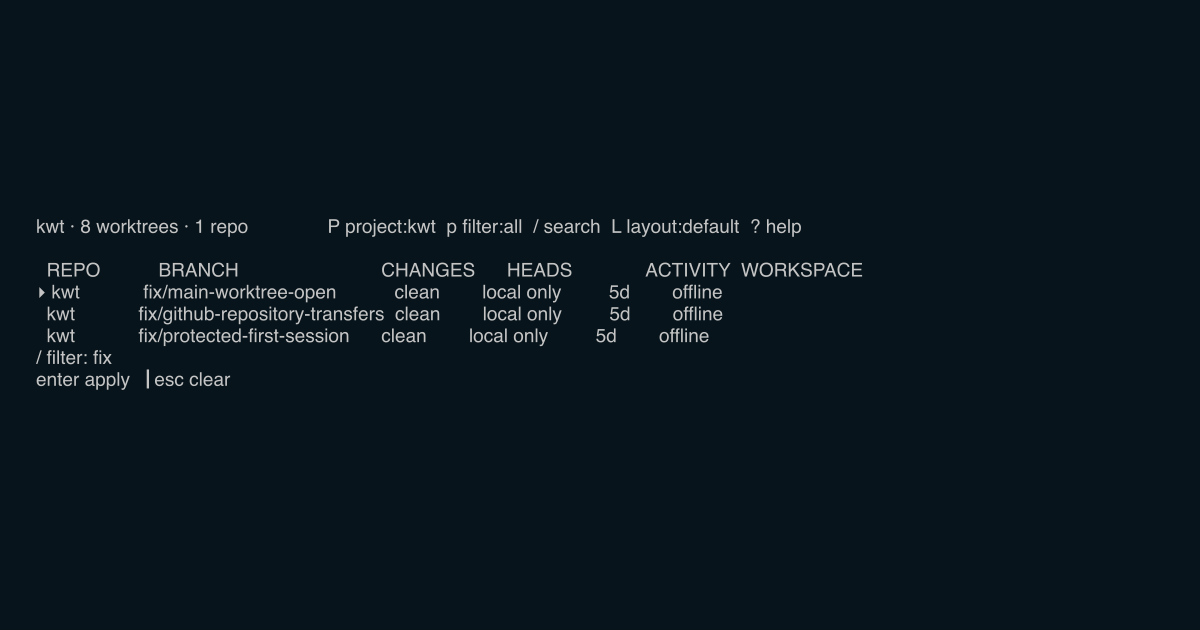
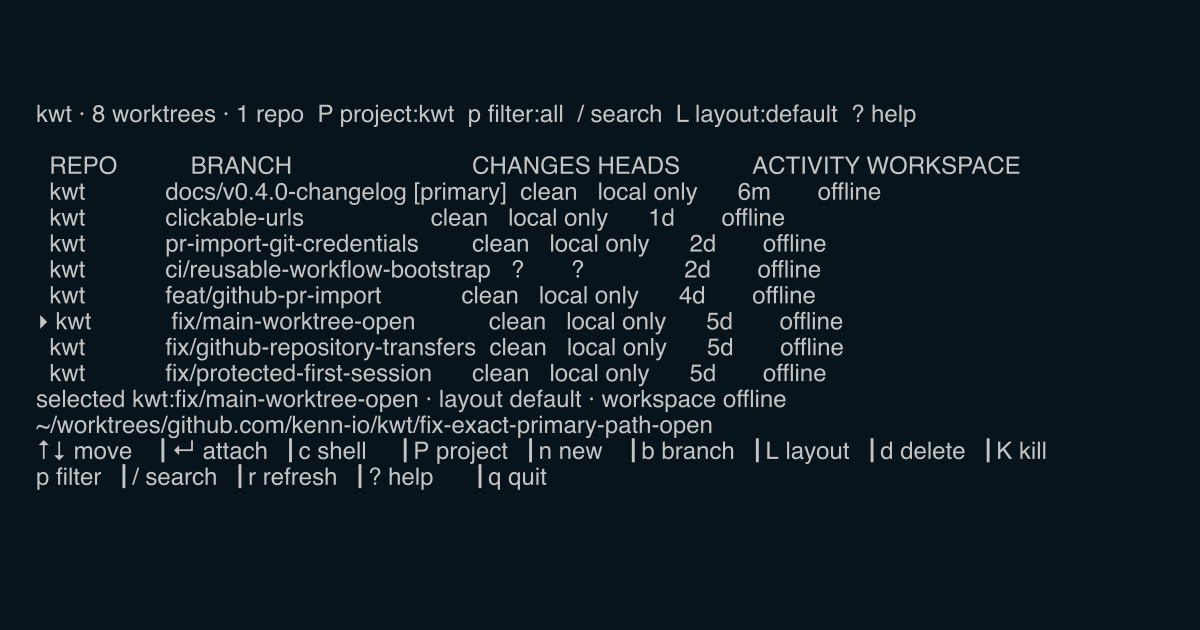
Fill the hero with the real dashboard
The filtered three-row capture left most of the hero frame empty and made the product illegible at page scale. A denser capture from the running dashboard uses the available canvas, shows the complete worktree inventory and command footer, and remains the single source for both the homepage and social previews.

Validation: Visually inspected the balanced 1200x630 capture and verified the strict documentation build.

Generated with Codex

Changed region(s): [[0.0308, 0.2413, 0.8942, 0.7841], [0.2158, 0.1508, 0.7708, 0.2111], [0.0308, 0.1508, 0.185, 0.2111]]

diff --git a/docs/index.md b/docs/index.md
@@ -23,7 +23,7 @@ hide:
   <figure class="kwt-hero__preview">
     <img
       src="assets/og.png"
-      alt="The kwt dashboard filtering eight worktrees to three matching fix branches"
+      alt="The kwt dashboard showing eight worktrees and their Git and workspace status"
       width="1200"
       height="630"
     >
